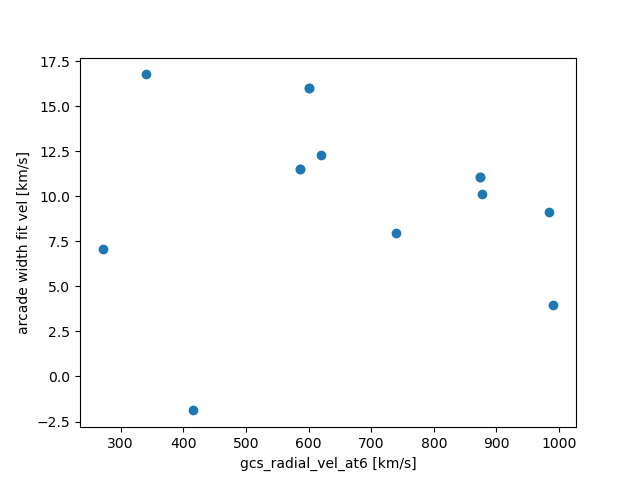
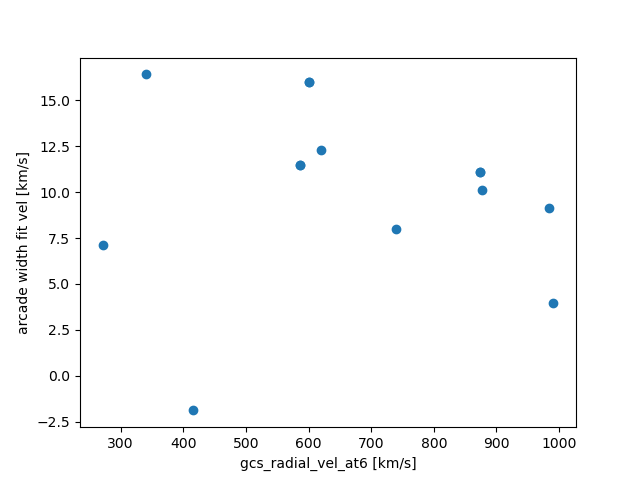
added >140 deg angle corr and fixed over all finela tilts plot

diff --git a/tools/iglesias/compare_all_prop.py b/tools/iglesias/compare_all_prop.py
@@ -22,14 +22,15 @@ import pandas as pd
 import datetime as dt
 from scipy.io import readsav
 
+ROT_DIFF = 140 # defines the limit to correct the tilt angle in case the diference is larger than this value
 
 # aux functions
 def correct_ang(ang_to_correct, reference_ang, do=True):
     ''' 
     Returns a scalar: +180, 180 or 0, used to correct ang_to_correct in case its 
-    diference is wrt reference_ang is larger than 140 deg
+    diference is wrt reference_ang is larger than ROT_DIFF deg
     '''
-    if (np.abs(ang_to_correct - reference_ang) > 140) & do:
+    if (np.abs(ang_to_correct - reference_ang) > ROT_DIFF) & do:
         if ang_to_correct < 0:
             return 180
         else:
@@ -163,6 +164,9 @@ for cd in gcs_dates:
     plt.close()
 
 # tilt angles
+gcs_ind_to_use=-1 # which gcs value to use in the scatter plot, -1 is the last one in time
+arcade_ind_to_use=-1 # which arcade value to use in the scatter plot, -1 is the last one in time
+
 df_ar['datetimes'] = pd.to_datetime(df_ar['Date'], format='%d/%m/%Y')
 gcs_vs_ar_val = []
 gcs_vs_fil_all = []
@@ -174,7 +178,7 @@ for d in df_fil['date']:
     d_str = d.strftime('%Y%m%d')
     print('Plotting tilt angles for date...' + d_str)
     if d_str in gcs_dates:
-        gcs_key = 'ROT'  # TODO REMOVE ME!!!!!!!!!!!!!!!!!!!      
+        gcs_key = 'ROT'
         gcs_idx = gcs_dates.index(d_str)
         gcs_val = np.rad2deg([float(sav.sgui[gcs_key]) for sav in gcs[gcs_idx]]).astype(float)
         gcs_times = np.array([dt.datetime.strptime(sav.sgui['ERUPTIONDATE'][0].decode('UTF-8'),'%Y-%m-%dT%H:%M:%S.%f') for sav in gcs[gcs_idx]])
@@ -188,7 +192,7 @@ for d in df_fil['date']:
             y1 = np.array(y1).astype(float)[0]
             y1 += correct_ang(np.median(y1),np.median(gcs_val), do=do_tilt_corr)
             plt.plot(x1, y1, 'sk', label='FIL')
-            gcs_vs_fil_all.append([gcs_val[0], y1])
+            gcs_vs_fil_all.append([gcs_val[arcade_ind_to_use], y1])
             gcs_times = np.concatenate((gcs_times, x1), axis=None)
             gcs_val = np.concatenate((gcs_val, y1), axis=None)
         x2 = df_ar.loc[df_ar['ar_time_tilt'].dt.date == d.date(), 'ar_time_tilt']
@@ -197,31 +201,37 @@ for d in df_fil['date']:
             y2 = np.array(y2).astype(float)[0]
             y2 += correct_ang(np.median(y2),np.median(gcs_val), do=do_tilt_corr)
             plt.plot(x2, y2, '^k', label='AR')
-            gcs_vs_ar_val.append([gcs_val[0], y2])
+            gcs_vs_ar_val.append([gcs_val[arcade_ind_to_use], y2])
             gcs_times = np.concatenate((gcs_times, [i.to_pydatetime() for i in x2]), axis=None)
             gcs_val = np.concatenate((gcs_val, y2), axis=None)       
         #adds arcade mean titls
         x3 = df_arcades.loc[df_arcades['date'].dt.date == d.date(), 'date']
         y3 = np.array(df_arcades.loc[df_arcades['date'].dt.date == d.date(), 'tilt mean [deg]']).astype(float)
-        # corrects if the diference is > 90 deg
-        y3 += correct_ang(np.median(y3),np.median(gcs_val), do=do_tilt_corr)
-        # gcs rotation vs arcade
-        cdiff = float(np.abs(gcs_val[-1] - np.mean(y3)))
-        if cdiff > 140:
-            if do_tilt_corr:
-                print('****************ERROR, you should not be here')
-            cdiff= 180 - cdiff
-        diff_all.append(cdiff)
-        diff_dates.append(d)
-        gcs_param = np.array((df_ar.loc[df_ar['datetimes'].dt.date == d.date(), 'gcs_lat_vel']))
-        if len(gcs_param) > 0:
-            gcs_param = np.nanmean(gcs_param)
-        diff_gcs_param_all.append(float(gcs_param))
-        plt.plot(x3, y3, 'ok', label='Arcades')
-        gcs_vs_arcades_all.append([gcs_val[0], y3[0]])
+        if len(y3) > 0:     
+            # corrects if the diference is > 140 deg
+            y3 += correct_ang(np.median(y3),np.median(gcs_val), do=do_tilt_corr)
+            # gcs rotation vs arcade
+            cdiff = float(np.abs(gcs_val[arcade_ind_to_use] - y3[arcade_ind_to_use]))
+            if cdiff > ROT_DIFF:
+                if do_tilt_corr:
+                    print('****************ERROR, you should not be here. Date...' + d_str)
+                cdiff= 180 - cdiff
+            diff_all.append(cdiff)
+            diff_dates.append(d)
+            gcs_param = np.array((df_ar.loc[df_ar['datetimes'].dt.date == d.date(), 'gcs_lat_vel']))
+            if len(gcs_param) > 0:
+                gcs_param = np.nanmean(gcs_param)
+                diff_gcs_param_all.append(float(gcs_param))
+                plt.plot(x3, y3, 'ok', label='Arcades')
+                gcs_vs_arcades_all.append([gcs_val[arcade_ind_to_use], y3[arcade_ind_to_use]])            
+            else:
+                diff_gcs_param_all.append(None)
+                gcs_vs_arcades_all.append([None, None]) 
+                print('No gcs_lat_vel for date...' + d_str)
+                pass
         ind = np.argsort(gcs_times)
         gcs_times = gcs_times[ind]
-        gcs_val = gcs_val[ind]
+        #gcs_val = gcs_val[ind]
         #plt.plot(gcs_times, gcs_val, '--k')
         plt.title(str(d))
         plt.ylabel('Tilt angle [deg]')
@@ -238,13 +248,13 @@ for d in df_fil['date']:
 gcs_vs_fil_all = np.array(gcs_vs_fil_all)
 gcs_vs_ar_val = np.array(gcs_vs_ar_val)
 gcs_vs_arcades_all = np.array(gcs_vs_arcades_all)
-plt.scatter(gcs_vs_fil_all[:, 0], gcs_vs_fil_all[:, 1], color='b', label='gcs vs fil')
-plt.scatter(gcs_vs_ar_val[:, 0], gcs_vs_ar_val[:, 1], color='r', label='gcs vs ar')
-plt.scatter(gcs_vs_arcades_all[:, 0], gcs_vs_arcades_all[:, 1], color='g', label='gcs vs arcades')
-plt.ylabel('fil/ar [deg]')
-plt.xlabel('gcs [deg]')  
-#plt.xlim([-90, 90])
-#plt.ylim([-90, 90])
+plt.scatter(gcs_vs_fil_all[:, 1], gcs_vs_fil_all[:, 0], color='b', label='gcs vs fil')
+plt.scatter(gcs_vs_ar_val[:, 1], gcs_vs_ar_val[:, 0], color='r', label='gcs vs ar')
+plt.scatter(gcs_vs_arcades_all[:, 1], gcs_vs_arcades_all[:, 0], color='g', label='gcs vs arcades')
+plt.xlabel('fil/ar/arcade [deg]')
+plt.ylabel('gcs [deg]')  
+#plt.xlim([-110, 110])
+#plt.ylim([-110, 110])
 plt.legend()
 plt.savefig(opath+'/gcs_tilt_vs_fil-ar-arcade.png')
 plt.close()

diff --git a/tools/iglesias/arcades_prop.py b/tools/iglesias/arcades_prop.py
@@ -147,7 +147,14 @@ for f in files:
         df['tilt mean [deg]'][i] = mean_ang
         df['tilt sd [deg]'][i] = diff       
         all_tilts.append([tilt_p0, tilt_p1, tilt_p2])        
-
+    # corrects tilts that are >140 deg appart wrt median
+    median_tilt = df['tilt mean [deg]'].median()
+    for i in range(len(df)):
+        if np.abs(df['tilt mean [deg]'][i] - median_tilt) > 140:
+            if df['tilt mean [deg]'][i] < 0:
+                df['tilt mean [deg]'][i] += 180
+            else:
+                df['tilt mean [deg]'][i] -= 180
     ### PLOTS
 
     # creates odir/every file name with event date at the end
